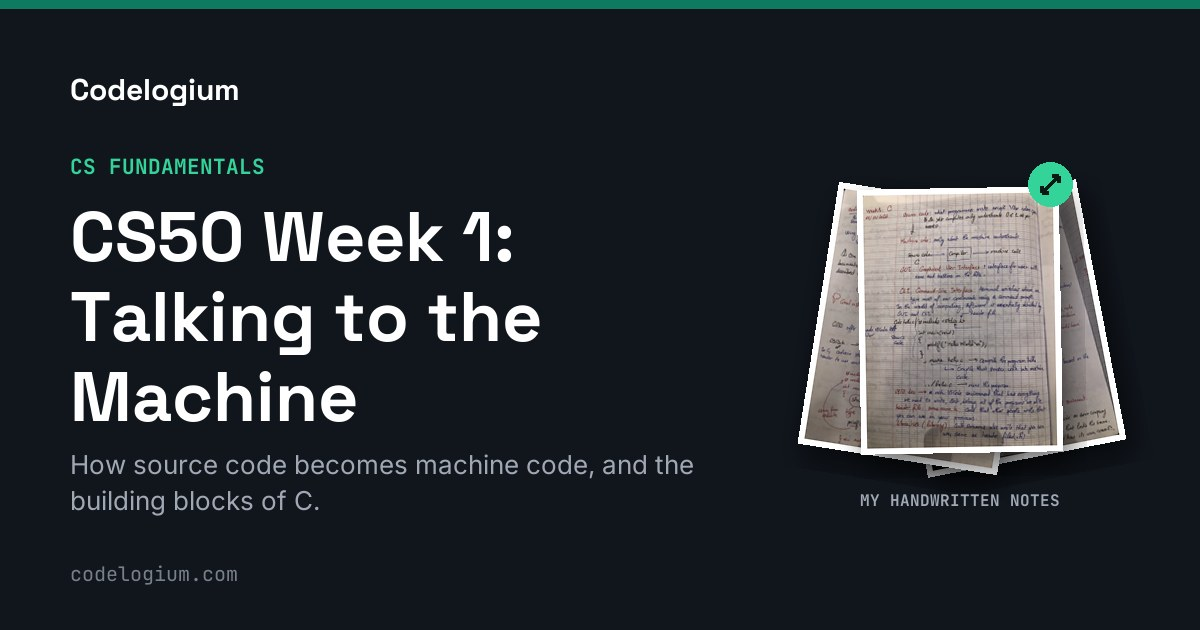
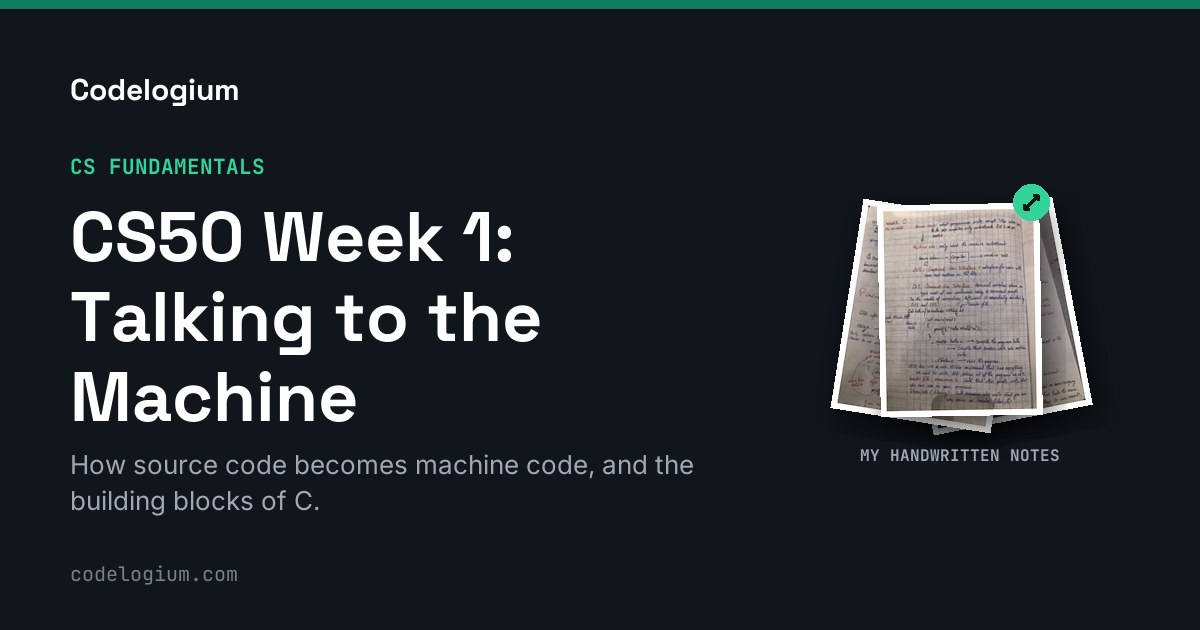
fix: even smaller notes deck in share images

Changed region(s): [[0.6475, 0.2413, 0.9558, 0.754], [0.7092, 0.7841, 0.8942, 0.8143]]

diff --git a/templates/tools.py b/templates/tools.py
@@ -213,8 +213,8 @@ def share(page):
     d.text((70, H - 70), "codelogium.com", font=f_url, fill=dim)
 
     # Three notebook pages fanned out, like the hero deck
-    cx, cy, pw, ph = 960, 320, 190, 253
-    for i, ang, dx, dy in [(3, 11, 42, 8), (2, -9, -42, 8), (1, 1, 0, 0)]:
+    cx, cy, pw, ph = 960, 310, 150, 200
+    for i, ang, dx, dy in [(3, 11, 33, 6), (2, -9, -33, 6), (1, 1, 0, 0)]:
         if not (assets / f"page-{i}.webp").exists():
             continue
         p = Image.open(assets / f"page-{i}.webp").convert("RGB")
@@ -230,13 +230,13 @@ def share(page):
 
     # Expand badge (two diagonal arrows) and label
     d = ImageDraw.Draw(im)
-    bx, by, dk = cx + 90, cy - 136, (11, 26, 20)
-    d.ellipse([bx - 22, by - 22, bx + 22, by + 22], fill=green)
+    bx, by, dk = cx + 71, cy - 108, (11, 26, 20)
+    d.ellipse([bx - 18, by - 18, bx + 18, by + 18], fill=green)
     for s in (1, -1):
-        d.line([bx, by, bx + 8 * s, by - 8 * s], fill=dk, width=4)
-        d.line([bx + 8 * s, by - 8 * s, bx + 2 * s, by - 8 * s], fill=dk, width=4)
-        d.line([bx + 8 * s, by - 8 * s, bx + 8 * s, by - 2 * s], fill=dk, width=4)
-    d.text((cx, cy + 180), "MY HANDWRITTEN NOTES", font=f_lab, fill=grey, anchor="mm")
+        d.line([bx, by, bx + 7 * s, by - 7 * s], fill=dk, width=3)
+        d.line([bx + 7 * s, by - 7 * s, bx + 2 * s, by - 7 * s], fill=dk, width=3)
+        d.line([bx + 7 * s, by - 7 * s, bx + 7 * s, by - 2 * s], fill=dk, width=3)
+    d.text((cx, cy + 145), "MY HANDWRITTEN NOTES", font=f_lab, fill=grey, anchor="mm")
 
     out = assets / "share.jpg"
     im.save(out, quality=88, optimize=True)
